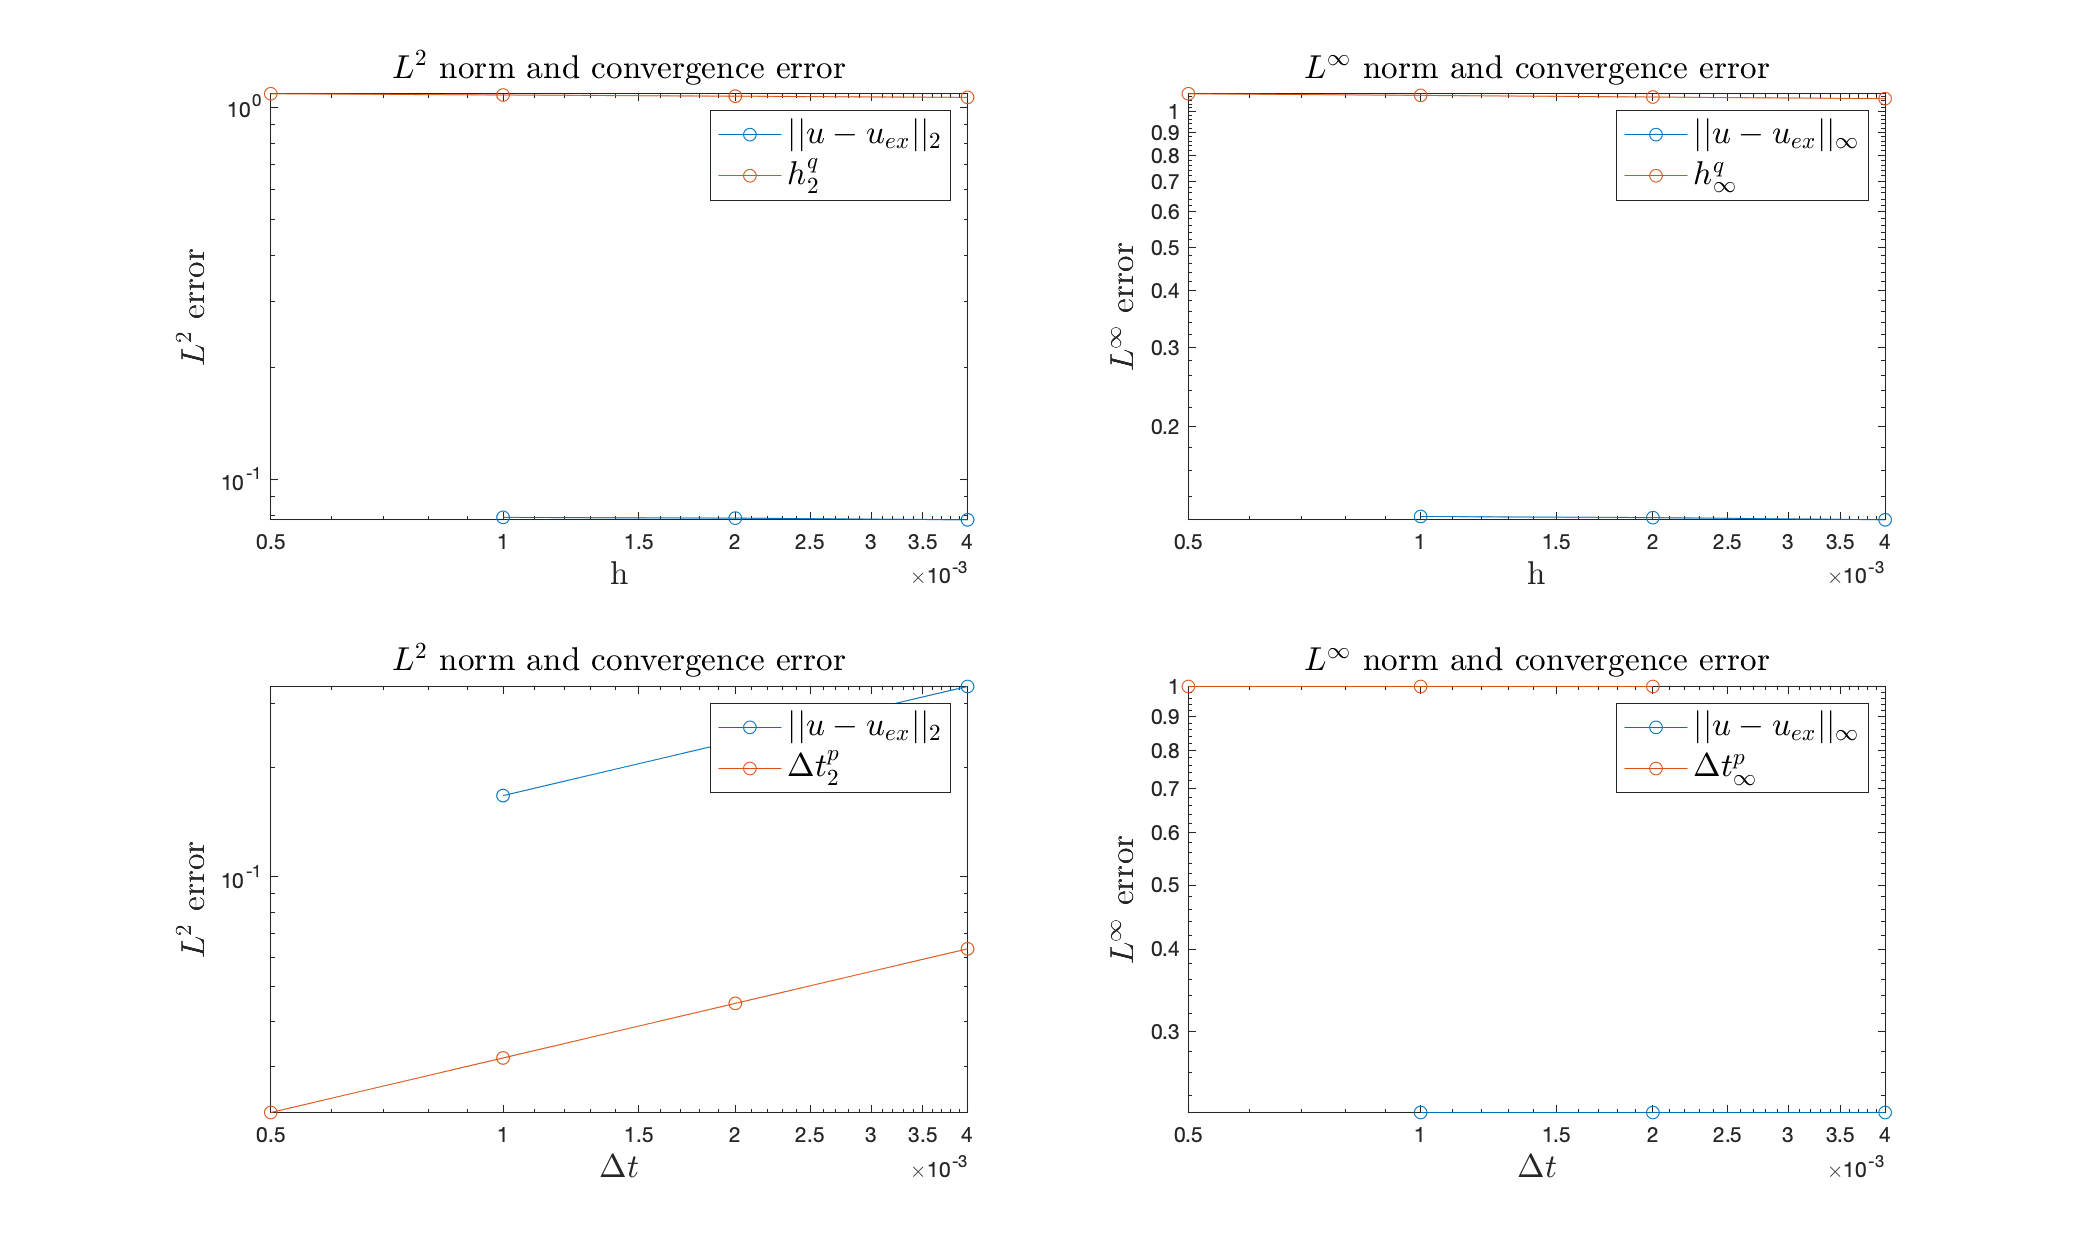
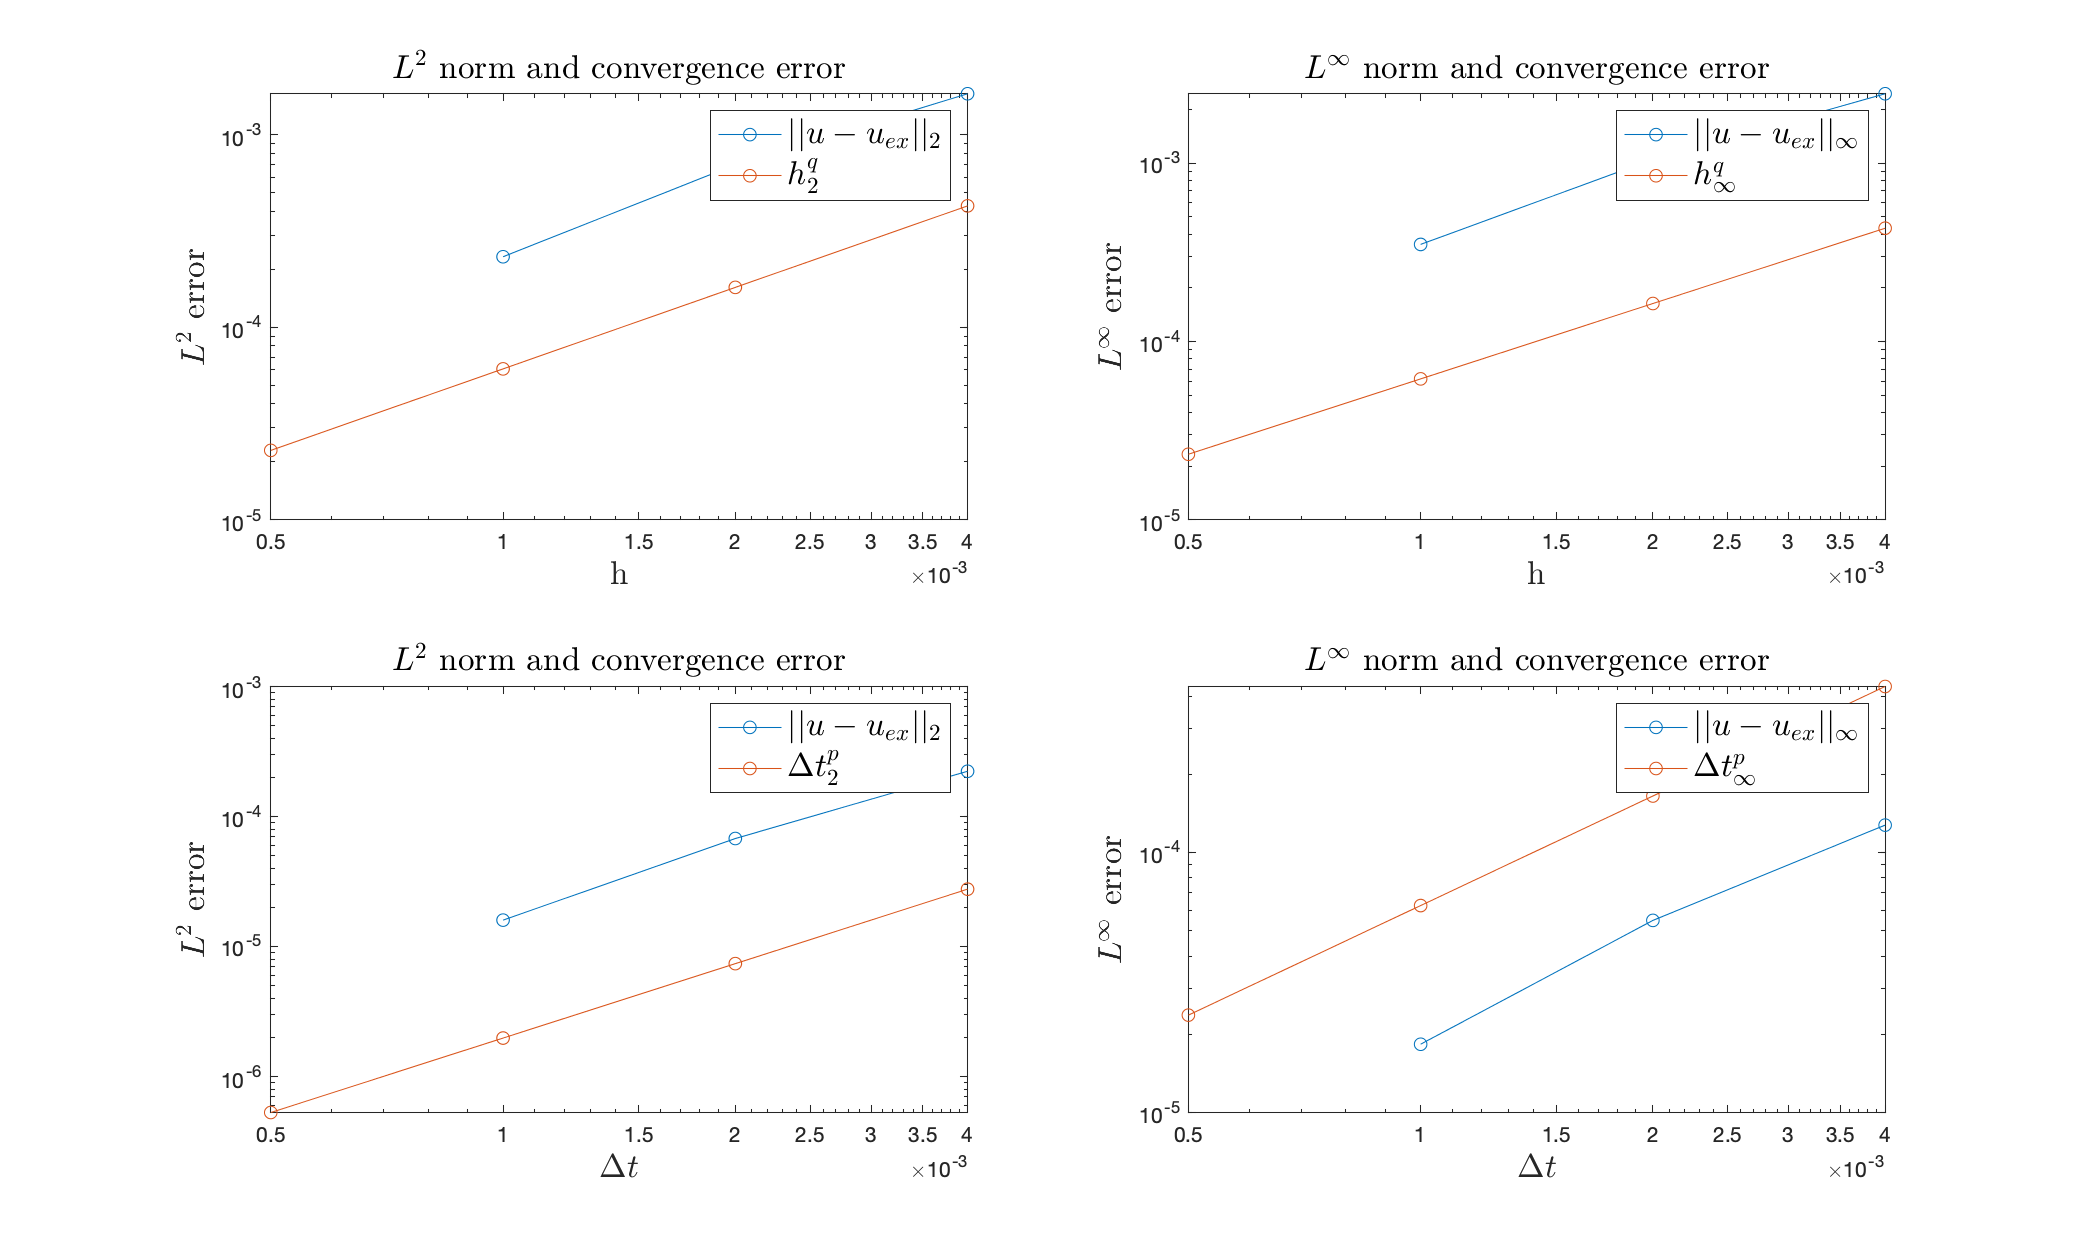
final version

diff --git a/HW3/HW3_main2_EX4.m b/HW3/HW3_main2_EX4.m
@@ -105,7 +105,7 @@ for i = 1:errorsMaxIndex
     
     [SOL,dx,dt] = FD_1D_BURGER_FUN2_EX4(mu,T,I,NT, NX ,u0, u0_t, uj_t);
     disp("dx="+num2str(dx));
-    SOL_EXX = SOL_EX(1:2^(i):end,2001);
+    SOL_EXX = SOL_EX(1:2^(i):end,5001);
     L2_ERR  = norm(SOL_EXX-SOL(:,indexError),2)*(h_base*(2^i))^0.5;
     LINF_ERR = norm(SOL_EXX-SOL(:,indexError),Inf);
     l2_errors_h(i,1) = L2_ERR;
@@ -118,9 +118,9 @@ for i = 1:errorsMaxIndex
     
     NT= T/(dt_base*(2^i));
     indexError = NT+1;
-    [SOL,dx,dt] = FD_1D_BURGER_FUN2(mu,T,I,NT, NX ,u0, u0_t, uj_t);
+    [SOL,dx,dt] = FD_1D_BURGER_FUN2_EX4(mu,T,I,NT, NX ,u0, u0_t, uj_t);
     disp("dt="+num2str(dt));
-    SOL_EXX = SOL_EX(:,2001);
+    SOL_EXX = SOL_EX(:,5001);
     L2_ERR  = norm(SOL_EXX-SOL(:,indexError),2)*(dt_base*(2^i))^0.5;
     LINF_ERR = norm(SOL_EXX-SOL(:,indexError),Inf);
     l2_errors_t(i,1) = L2_ERR;
@@ -297,7 +297,7 @@ for i = 1:errorsMaxIndex
     
     [SOL,dx,dt] = FD_1D_BURGER_FUN2_EX4(mu,T,I,NT, NX ,u0, u0_t, uj_t);
     disp("dx="+num2str(dx));
-    SOL_EXX = SOL_EX(1:2^(i):end,2001);
+    SOL_EXX = SOL_EX(1:2^(i):end,5001);
     L2_ERR  = norm(SOL_EXX-SOL(:,indexError),2)*(h_base*(2^i))^0.5;
     LINF_ERR = norm(SOL_EXX-SOL(:,indexError),Inf);
     l2_errors_h(i,1) = L2_ERR;
@@ -310,9 +310,9 @@ for i = 1:errorsMaxIndex
     
     NT= T/(dt_base*(2^i));
     indexError = NT+1;
-    [SOL,dx,dt] = FD_1D_BURGER_FUN2(mu,T,I,NT, NX ,u0, u0_t, uj_t);
+    [SOL,dx,dt] = FD_1D_BURGER_FUN2_EX4(mu,T,I,NT, NX ,u0, u0_t, uj_t);
     disp("dt="+num2str(dt));
-    SOL_EXX = SOL_EX(:,2001);
+    SOL_EXX = SOL_EX(:,5001);
     L2_ERR  = norm(SOL_EXX-SOL(:,indexError),2)*(dt_base*(2^i))^0.5;
     LINF_ERR = norm(SOL_EXX-SOL(:,indexError),Inf);
     l2_errors_t(i,1) = L2_ERR;
@@ -354,7 +354,7 @@ E_1Inf_t = lInf_errors_t(1,1);
 E_2Inf_t = lInf_errors_t(end,1);
 ptINF = log(E_1Inf_t/E_2Inf_t)/log(dt_base*2/(dt_base*(2^(errorsMaxIndex))));
 convInf_val_t = zeros(errorsMaxIndex+1,1);
-for i = 0:errorsMaxIndex-1
+for i = 0:errorsMaxIndex
     convInf_val_t(i+1,1) = (dt_base*(2^i))^(ptINF);
 end
 
@@ -485,7 +485,7 @@ for i = 1:errorsMaxIndex
     
     [SOL,dx,dt] = FD_1D_BURGER_FUN2_EX4(mu,T,I,NT, NX ,u0, u0_t, uj_t);
     disp("dx="+num2str(dx));
-    SOL_EXX = SOL_EX(1:2^(i):end,2001);
+    SOL_EXX = SOL_EX(1:2^(i):end,5001);
     L2_ERR  = norm(SOL_EXX-SOL(:,indexError),2)*(h_base*(2^i))^0.5;
     LINF_ERR = norm(SOL_EXX-SOL(:,indexError),Inf);
     l2_errors_h(i,1) = L2_ERR;
@@ -498,9 +498,9 @@ for i = 1:errorsMaxIndex
     
     NT= T/(dt_base*(2^i));
     indexError = NT+1;
-    [SOL,dx,dt] = FD_1D_BURGER_FUN2(mu,T,I,NT, NX ,u0, u0_t, uj_t);
+    [SOL,dx,dt] = FD_1D_BURGER_FUN2_EX4(mu,T,I,NT, NX ,u0, u0_t, uj_t);
     disp("dt="+num2str(dt));
-    SOL_EXX = SOL_EX(:,2001);
+    SOL_EXX = SOL_EX(:,5001);
     L2_ERR  = norm(SOL_EXX-SOL(:,indexError),2)*(dt_base*(2^i))^0.5;
     LINF_ERR = norm(SOL_EXX-SOL(:,indexError),Inf);
     l2_errors_t(i,1) = L2_ERR;
@@ -542,7 +542,7 @@ E_1Inf_t = lInf_errors_t(1,1);
 E_2Inf_t = lInf_errors_t(end,1);
 ptINF = log(E_1Inf_t/E_2Inf_t)/log(dt_base*2/(dt_base*(2^(errorsMaxIndex))));
 convInf_val_t = zeros(errorsMaxIndex+1,1);
-for i = 0:errorsMaxIndex-1
+for i = 0:errorsMaxIndex
     convInf_val_t(i+1,1) = (dt_base*(2^i))^(ptINF);
 end
 

diff --git a/HW3/FD_1D_BURGER_FUN2_EX4.m b/HW3/FD_1D_BURGER_FUN2_EX4.m
@@ -26,7 +26,7 @@ function [SOL,dx,dt] = FD_1D_BURGER_FUN2_EX4(mu,T,I,NT, NX ,u0, u0_t, uj_t)
     R= zeros(NX+3,NT+1);
 
     for n = 2:NT+1
-        R(NX+2,n)= uj_t((n-1)*dt);
+        R(NX+2,n)= uj_t((n)*dt);
         R(NX+3,n) = R(NX+2,n);
     end
 
